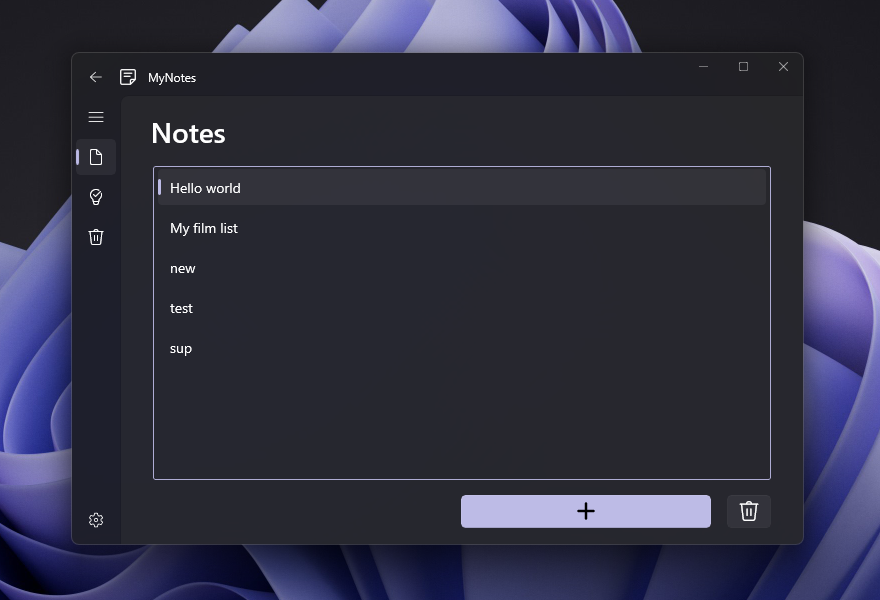
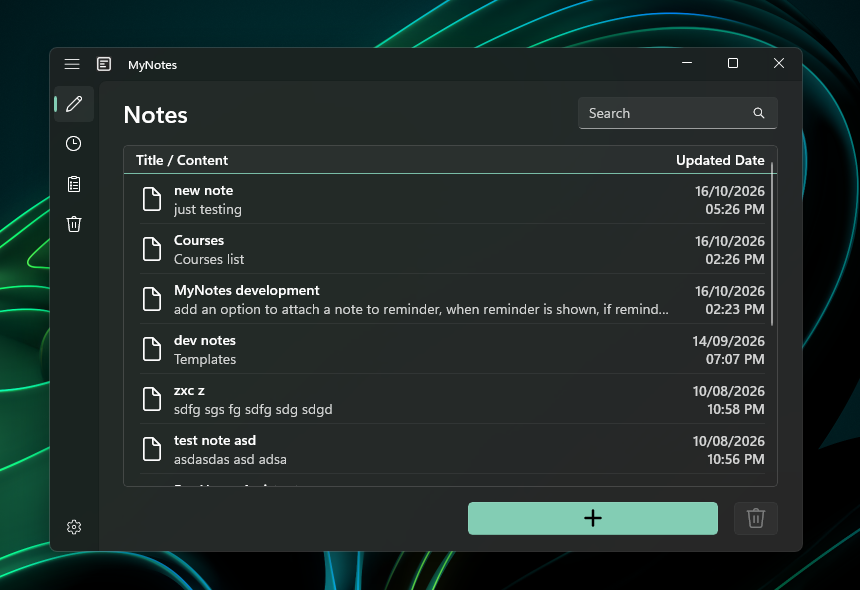
README.md changes

diff --git a/README.md b/README.md
@@ -5,13 +5,12 @@
 [![Stargazers][stars-shield]][stars-url]
 [![Issues][issues-shield]][issues-url]
 [![GPL-3.0 License][license-shield]][license-url]
-[![LinkedIn][linkedin-shield]][linkedin-url]
 [![Crowdin][crowdin-shield]][crowdin-url]
 
 <!-- PROJECT LOGO -->
 <br />
 <div align="center">
-  <a href="https://github.com/ErenCanUtku/MyNotes/">
+  <a href="https://github.com/Erencrypt/MyNotes/">
     <img src="MyNotes/Assets/NoteIcon.png" alt="Logo" width="80" height="80">
   </a>
 
@@ -22,9 +21,9 @@
     <br /><!--
     <a href="https://github.com/othneildrew/Best-README-Template"><strong>Explore the docs »</strong></a>
     <br />-->
-    <a href="https://github.com/ErenCanUtku/MyNotes/issues">Report Bug</a>
+    <a href="https://github.com/Erencrypt/MyNotes/issues">Report Bug</a>
     ·
-    <a href="https://github.com/ErenCanUtku/MyNotes/issues">Request Feature</a>
+    <a href="https://github.com/Erencrypt/MyNotes/issues">Request Feature</a>
   </p>
 </div>
 
@@ -164,19 +163,17 @@ Distributed under the **GNU General Public License v3.0** License. See [`LICENSE
 <!-- CONTACT
 ## Contact
 
-Eren Can Utku - [@eren_can_utku](https://www.instagram.com/eren_can_utku/)
-
-Project Link: [https://github.com/ErenCanUtku/MyNotes](https://github.com/your_username/repo_name)
+Project Link: [https://github.com/Erencrypt/MyNotes](https://github.com/your_username/repo_name)
 
 <p align="right">(<a href="#readme-top">back to top</a>)</p> -->
 
 <!-- ACKNOWLEDGMENTS -->
 ## Acknowledgments
 These are the list of resources I find helpful and would like to give credit to. 
-* This project uses [**Advance Installer**](https://www.advancedinstaller.com) to create an installation package. They provided us a professional license to use for this project (if someone from advance installer is reading this, thank you all, you guys helped me a lot :D)
+<!-- new setup tool will be mentioned here -->
 * I fixed life cycle API and removed old solution to this problem, but i will left [this question](https://stackoverflow.com/questions/59706160/c-sharp-dot-net-core-single-instance-app-passing-parameters-to-first-instance) here, maybe it will be useful to someone.
 * [Choose an Open Source License](https://choosealicense.com)
-* [Best-README-Template](https://github.com/othneildrew/Best-README-Template) (This template is so useful).
+* [Best-README-Template](https://github.com/othneildrew/Best-README-Template).
 
 <p align="right">(<a href="#readme-top">back to top</a>)</p>
 
@@ -195,7 +192,6 @@ These are the list of resources I find helpful and would like to give credit to.
 [license-shield]: https://img.shields.io/github/license/Erencrypt/MyNotes.svg?style=for-the-badge
 [license-url]: https://github.com/Erencrypt/MyNotes/blob/master/LICENSE
 [linkedin-shield]: https://img.shields.io/badge/-LinkedIn-black.svg?style=for-the-badge&logo=linkedin&colorB=555
-[linkedin-url]: https://www.linkedin.com/in/eren-can-utku/
 [product-screenshot]: ReadmeResources/AppImage.png
 [csharp]: https://img.shields.io/badge/C_Sharp-239120?style=for-the-badge&logo=csharp&logoColor=white
 [csharp-url]: https://learn.microsoft.com/en-us/dotnet/csharp/
